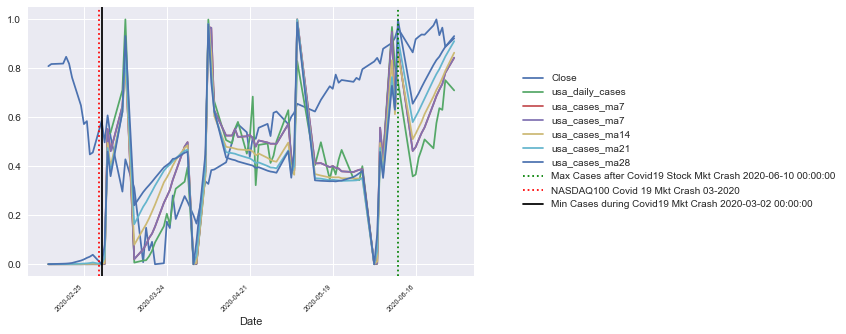
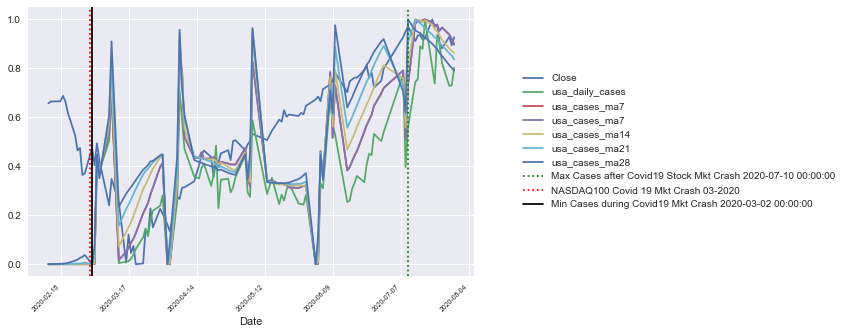
UPDATED AFTER REVIEW
UPDATED AFTER REVIEW

diff --git a/README.md b/README.md
@@ -42,13 +42,11 @@ DURING Covid19
 6 MONTHS BEFORE AND AFTER Covid19
 The returned result from the model with the strongest linear relationship was DURING Covid19.
 
-* Further When running a linear regression stepwise selection the US Covid19 7 Day moving average resulted with the strongest feature values.  The NASDAQ 7 Day Moving Average also was defined in stepwise selection as a strong feature.
+* Further When running a linear regression stepwise selection the US Covid19 14 Day moving average resulted with the strongest feature values.  The NASDAQ 7 and 14 Day Moving Averages also were defined in stepwise selection as a strong feature.
 
-*  The R squared value (0.109) for the Covid19 7 Day Moving average was not sufficient to recommend that this feature was a significantly strong predictor for the change in daily NASDAQ close price.
+*  The R squared value (0.310) for the Covid19 14 Day Moving average was not sufficient to recommend that this feature was a significantly strong predictor for the change in daily NASDAQ close price.
 
 * In final recommendations, I would not recommend that US Daily Covid19 case numbers be used for strong prediction of the NASDAQ daily close price.
 
 * Next steps could include modelling data with faster moving averages of the NASDAQ price (for example by minute, hour(s)). Alternatively other data representing significant news announcements related to Covid19 could be modeled for feature selection (for example vaccine announcements on twitter or other news sources)
-
-Sue Mir / Flatiron Data Science Course / December 2020
 
